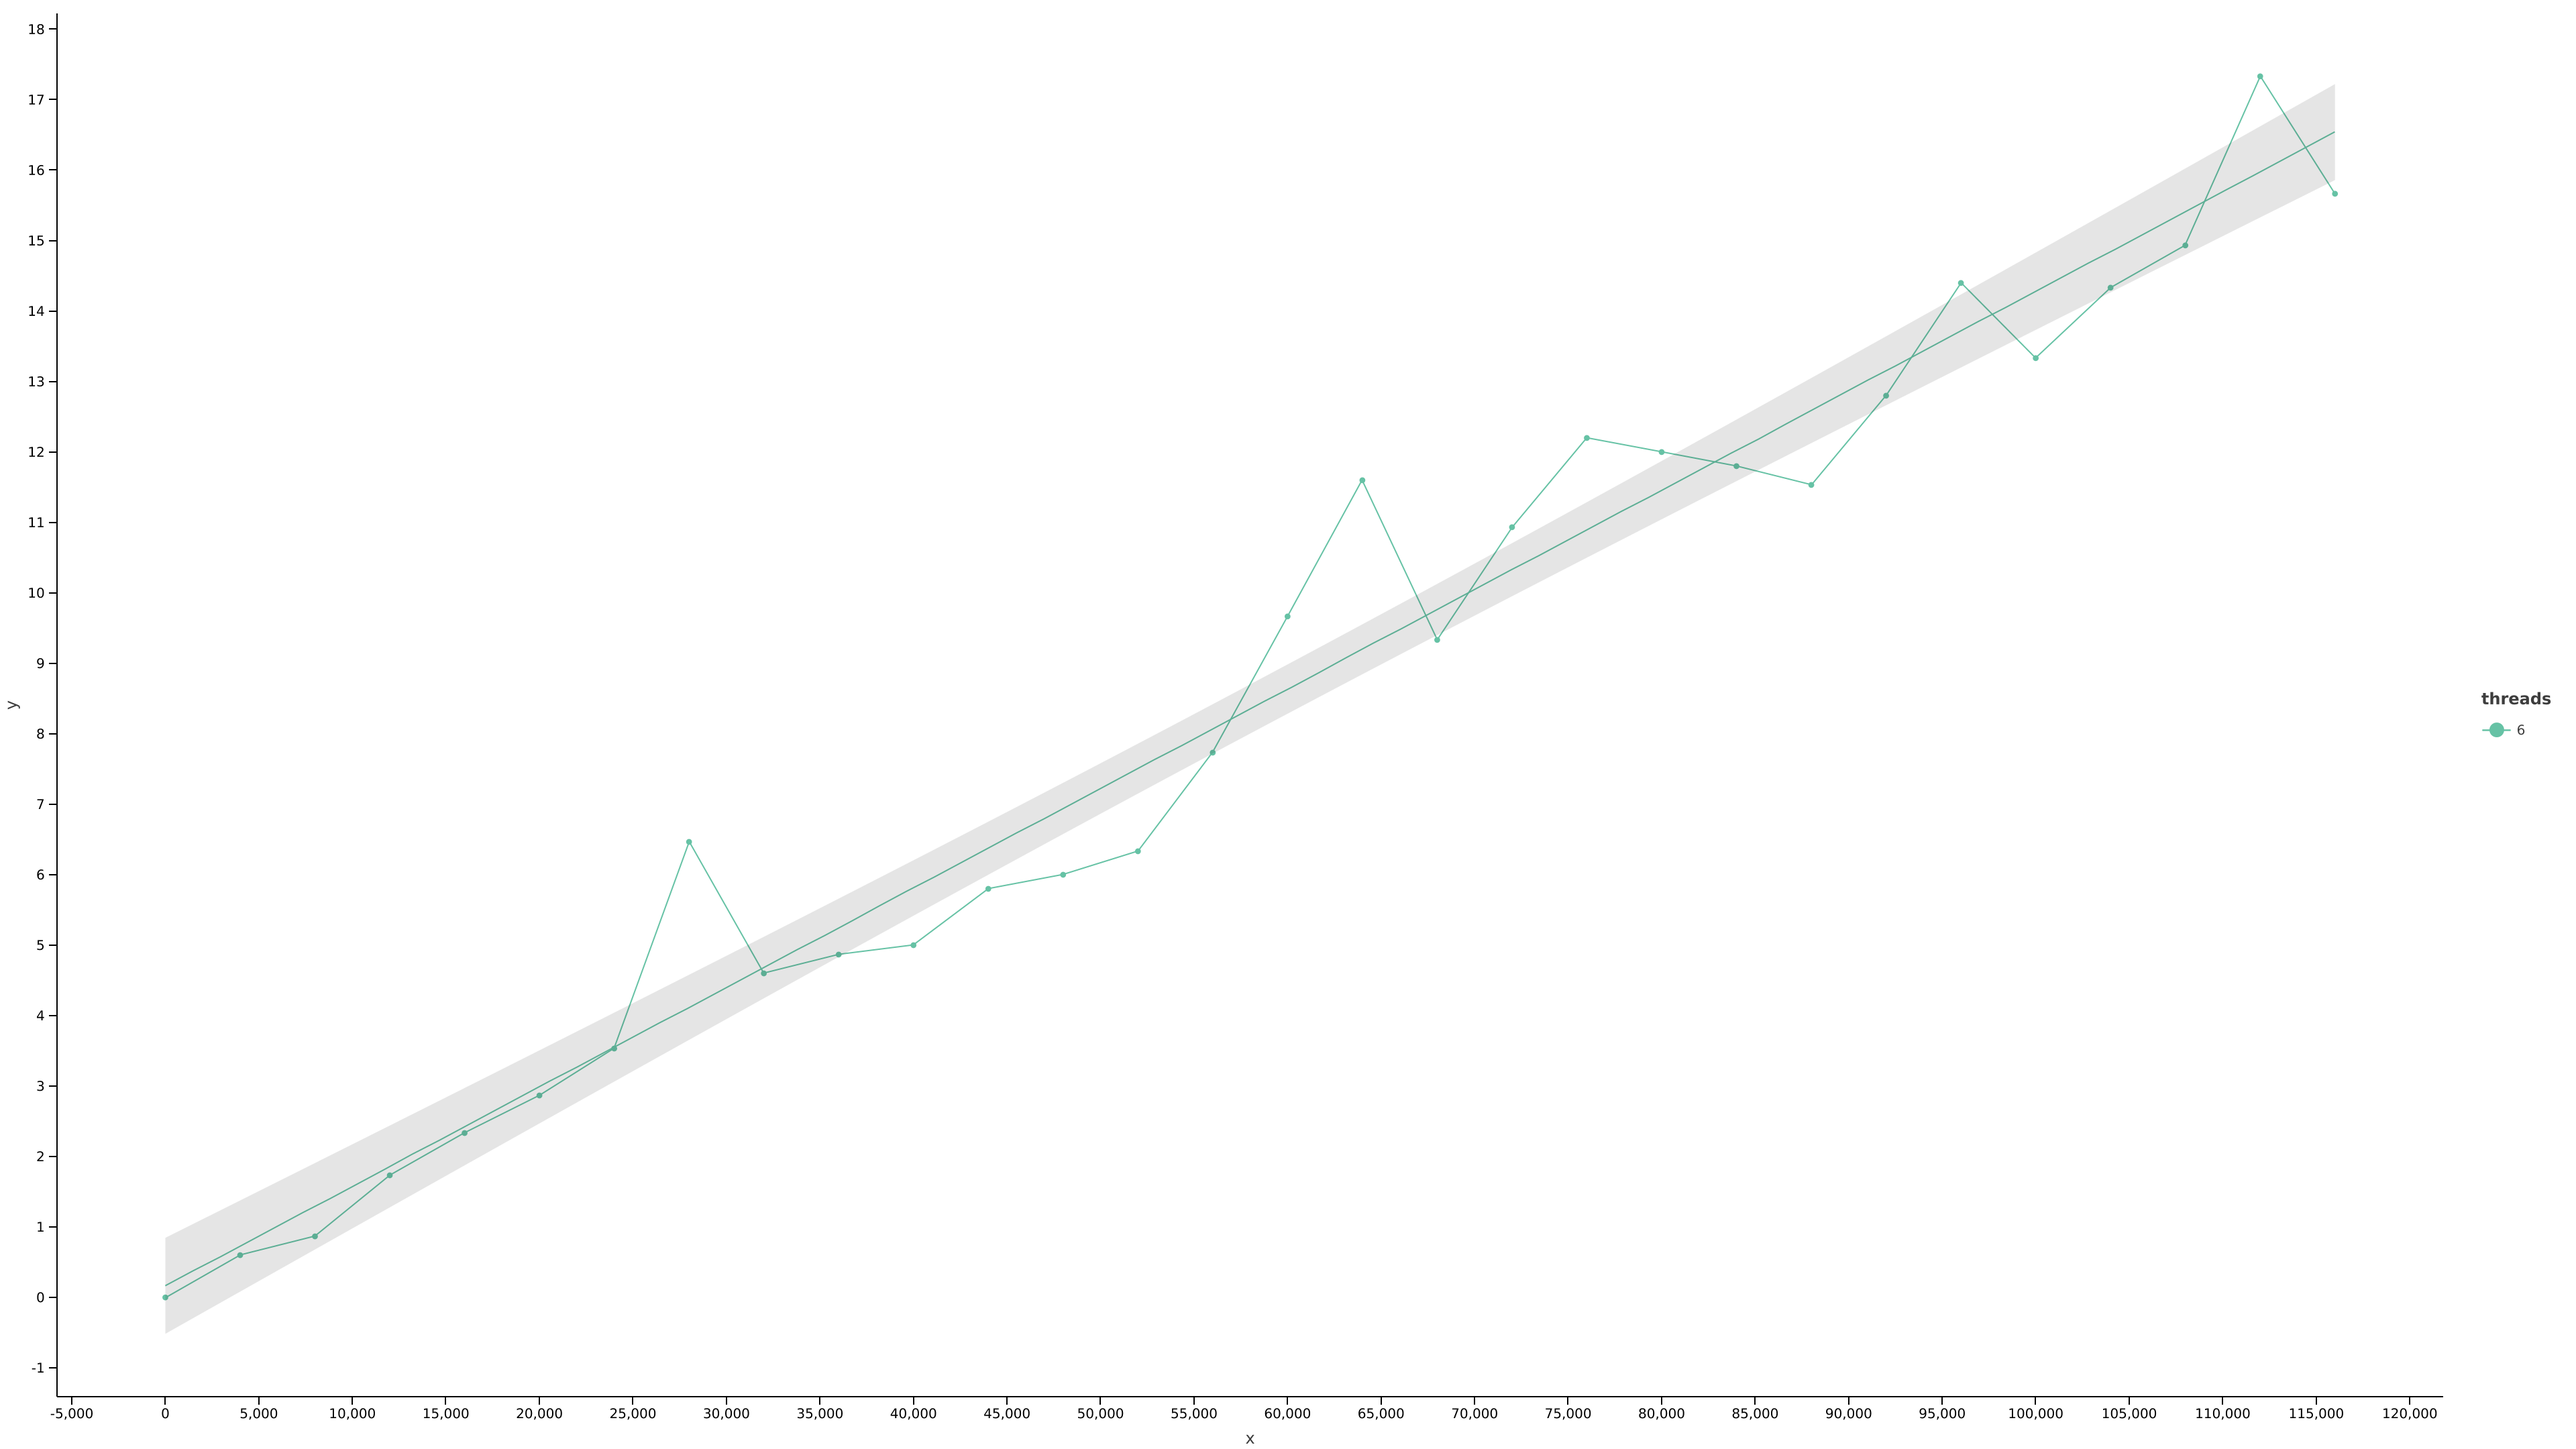
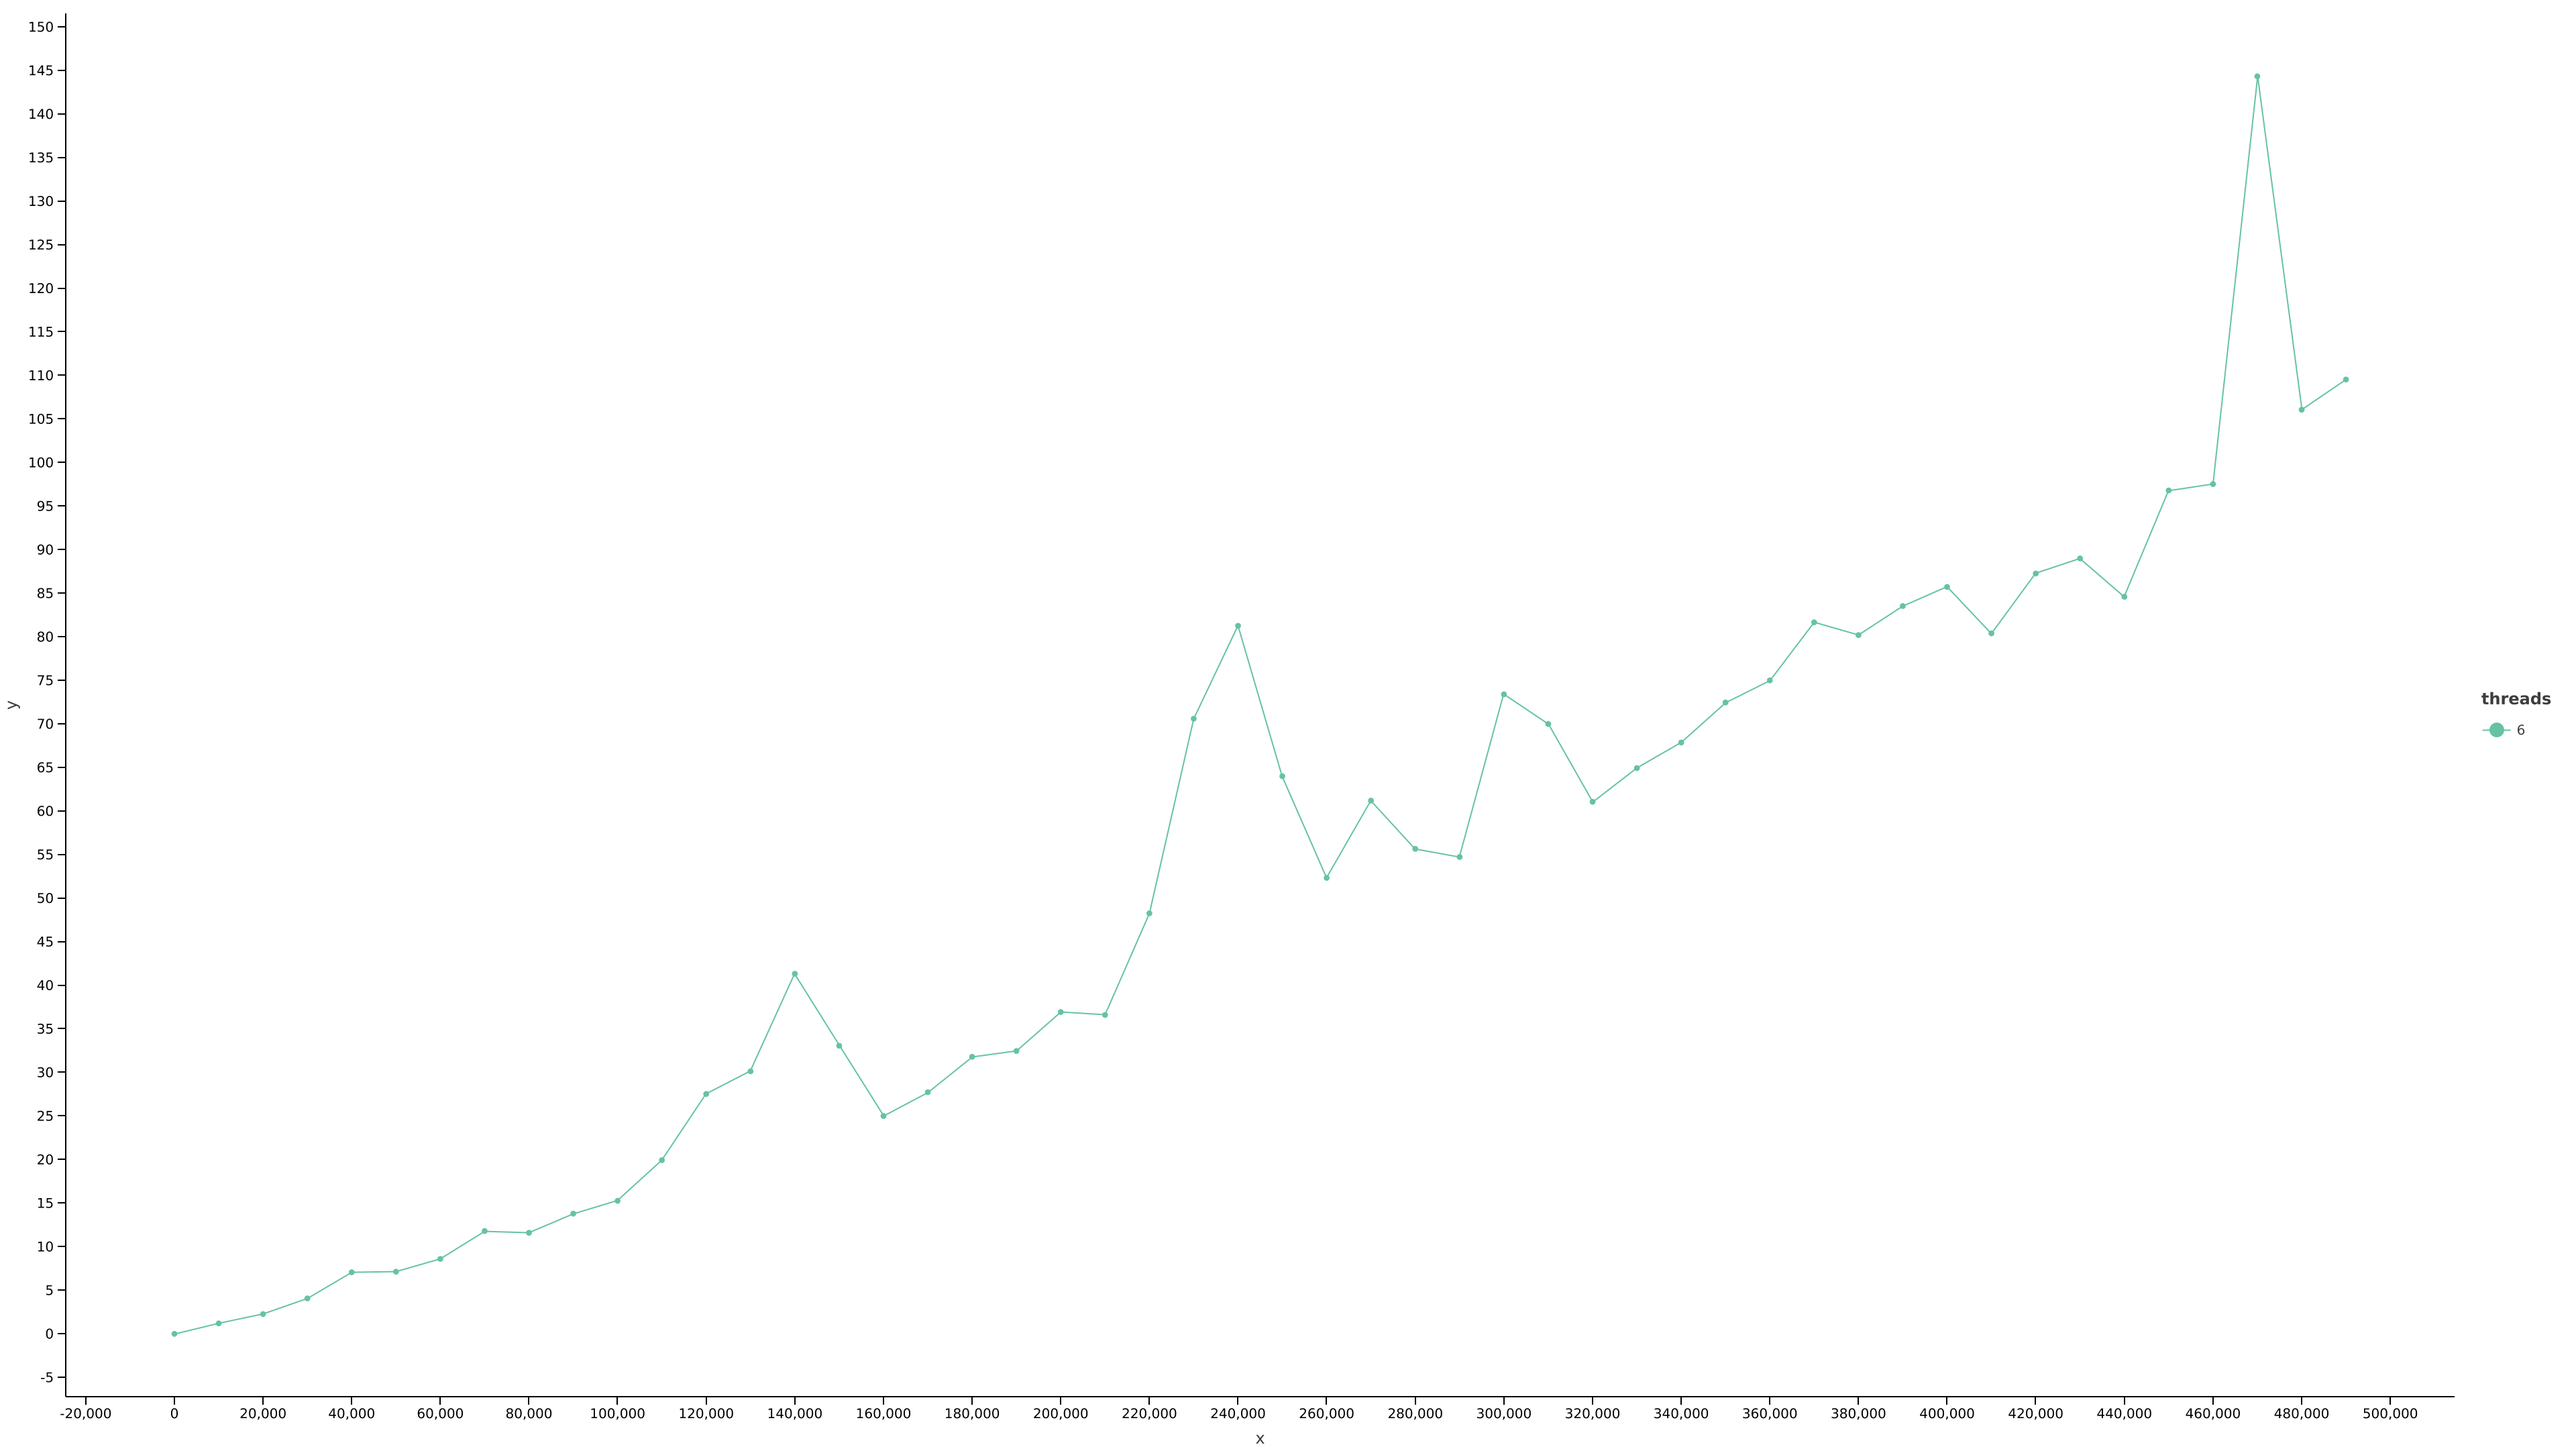
added graphics

diff --git a/src/main/kotlin/homeworks/hw4/task1/benchmark/GraphicCreator.kt b/src/main/kotlin/homeworks/hw4/task1/benchmark/GraphicCreator.kt
@@ -4,18 +4,23 @@ import homeworks.hw4.task1.qsort.QSortWithThreads
 import java.util.concurrent.ForkJoinPool
 
 class GraphicCreator {
-    @Suppress("MagicNumber")
     fun createMapForGraphic(threadsCount: Int): Map<String, Any> {
-        val xs = List(50) { it * 10000 }
+        val xs = List(SIZE) { it * STEP }
         val sorter = QSortWithThreads<Int>(ForkJoinPool(threadsCount))
         val benchmark = Benchmark()
         val arrayGenerator = ArrayGenerator()
         val ys = xs.map {
             benchmark.measureAverageTimeMillis(
                 { array -> sorter.sort(array) },
-                arrayGenerator.getRandomArray(it), 15
+                arrayGenerator.getRandomArray(it), REPEATS
             )
         }
         return mapOf<String, Any>("threads" to List(xs.size) { "$threadsCount" }, "x" to xs, "y" to ys)
+    }
+
+    companion object PARAMS {
+        const val STEP = 10000
+        const val SIZE = 50
+        const val REPEATS = 15
     }
 }

diff --git a/src/main/kotlin/homeworks/hw4/task1/benchmark/runToCreateGraphics.kt b/src/main/kotlin/homeworks/hw4/task1/benchmark/runToCreateGraphics.kt
@@ -3,7 +3,6 @@ package homeworks.hw4.task1.benchmark
 import jetbrains.letsPlot.export.ggsave
 import jetbrains.letsPlot.geom.geomLine
 import jetbrains.letsPlot.geom.geomPoint
-import jetbrains.letsPlot.geom.geomSmooth
 import jetbrains.letsPlot.ggplot
 import jetbrains.letsPlot.ggsize
 
@@ -15,7 +14,7 @@ fun main() {
         val fig = ggplot(data) { x = "x"; y = "y"; color = "threads" } + geomPoint(size = 2.0) + geomLine() + ggsize(
             1920,
             1080
-        ) + geomSmooth()
+        )
         ggsave(fig, "plot_${i}_threads.png")
     }
 }

diff --git a/src/main/kotlin/homeworks/hw4/task1/benchmark/Benchmark.kt b/src/main/kotlin/homeworks/hw4/task1/benchmark/Benchmark.kt
@@ -1,12 +1,12 @@
 package homeworks.hw4.task1.benchmark
 
 import kotlin.system.measureTimeMillis
-
+@Suppress("ArrayPrimitive")
 class Benchmark {
     fun measureAverageTimeMillis(sort: (Array<Int>) -> (Unit), array: Array<Int>, repeats: Int = 1): Double {
         var summaryTime: Long = 0
         val arrayGenerator = ArrayGenerator()
-        for (i in 0 until repeats) {
+        repeat(repeats) {
             val arrayToSort = arrayGenerator.arrayCopy(array)
             summaryTime += measureTimeMillis { sort(arrayToSort) }
         }

diff --git a/src/test/kotlin/homeworks/hw4/TestQSort.kt b/src/test/kotlin/homeworks/hw4/TestQSort.kt
@@ -9,7 +9,7 @@ import org.junit.jupiter.params.provider.Arguments
 import org.junit.jupiter.params.provider.MethodSource
 import java.util.concurrent.ForkJoinPool
 import kotlin.test.assertEquals
-
+@Suppress("ArrayPrimitive")
 class TestQSort {
     private val executor: ForkJoinPool = ForkJoinPool.commonPool()
     private val parallelSorter = QSortWithThreads<Int>(executor)

diff --git a/src/main/kotlin/homeworks/hw4/task1/utils.kt b/src/main/kotlin/homeworks/hw4/task1/utils.kt
@@ -12,7 +12,7 @@ fun <T> Array<T>.swap(index1: Int, index2: Int) {
 fun <T : Comparable<T>> Array<T>.isSorted(): Boolean {
     return (0 until this.lastIndex).all { this[it] <= this[it + 1] }
 }
-
+@Suppress("LoopWithTooManyJumpStatements")
 fun <T : Comparable<T>> partition(arr: Array<T>, start: Int, end: Int): Partition {
     var i = start
     var j = end

diff --git a/src/main/kotlin/homeworks/hw4/task1/benchmark/ArrayGenerator.kt b/src/main/kotlin/homeworks/hw4/task1/benchmark/ArrayGenerator.kt
@@ -1,5 +1,5 @@
 package homeworks.hw4.task1.benchmark
-
+@Suppress("ArrayPrimitive")
 class ArrayGenerator {
     fun getRandomArray(size: Int): Array<Int> {
         val list = MutableList(size) { it }.shuffled()
